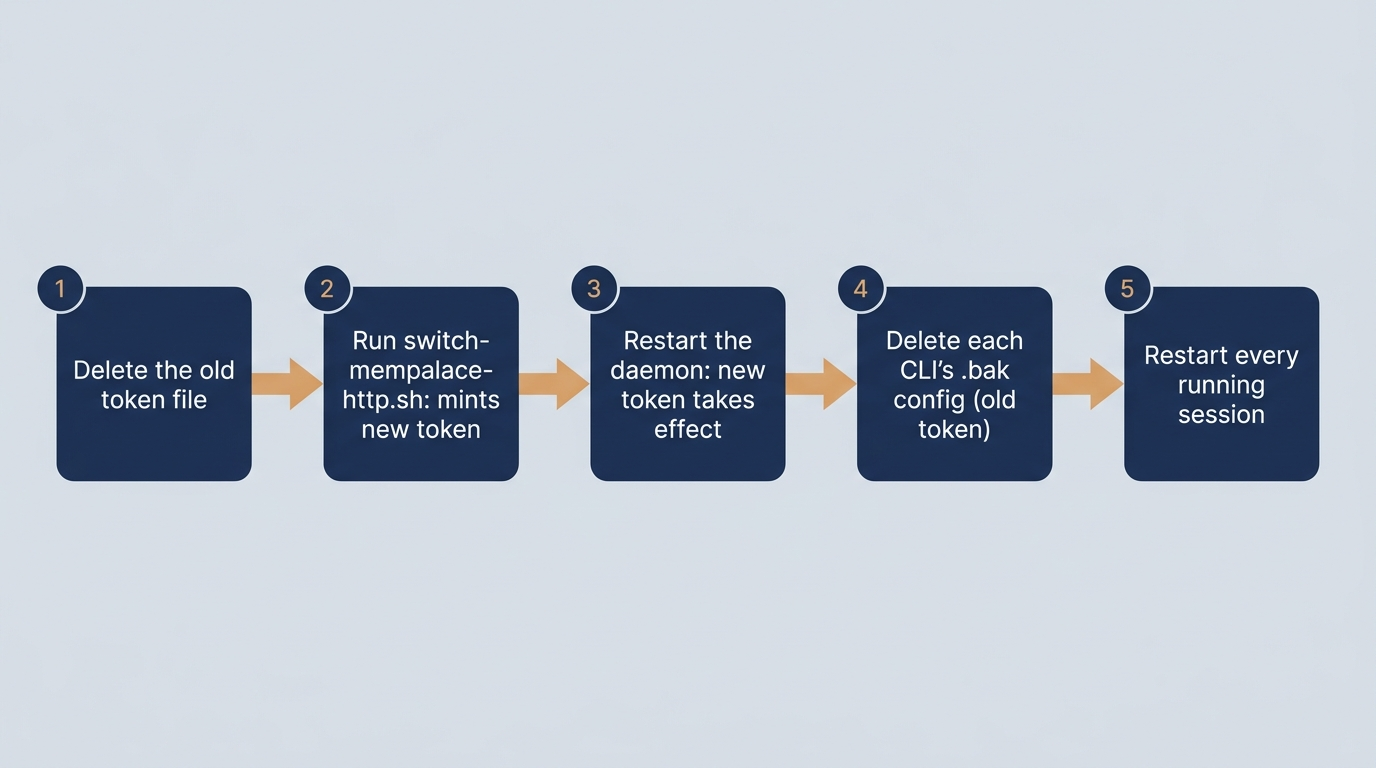
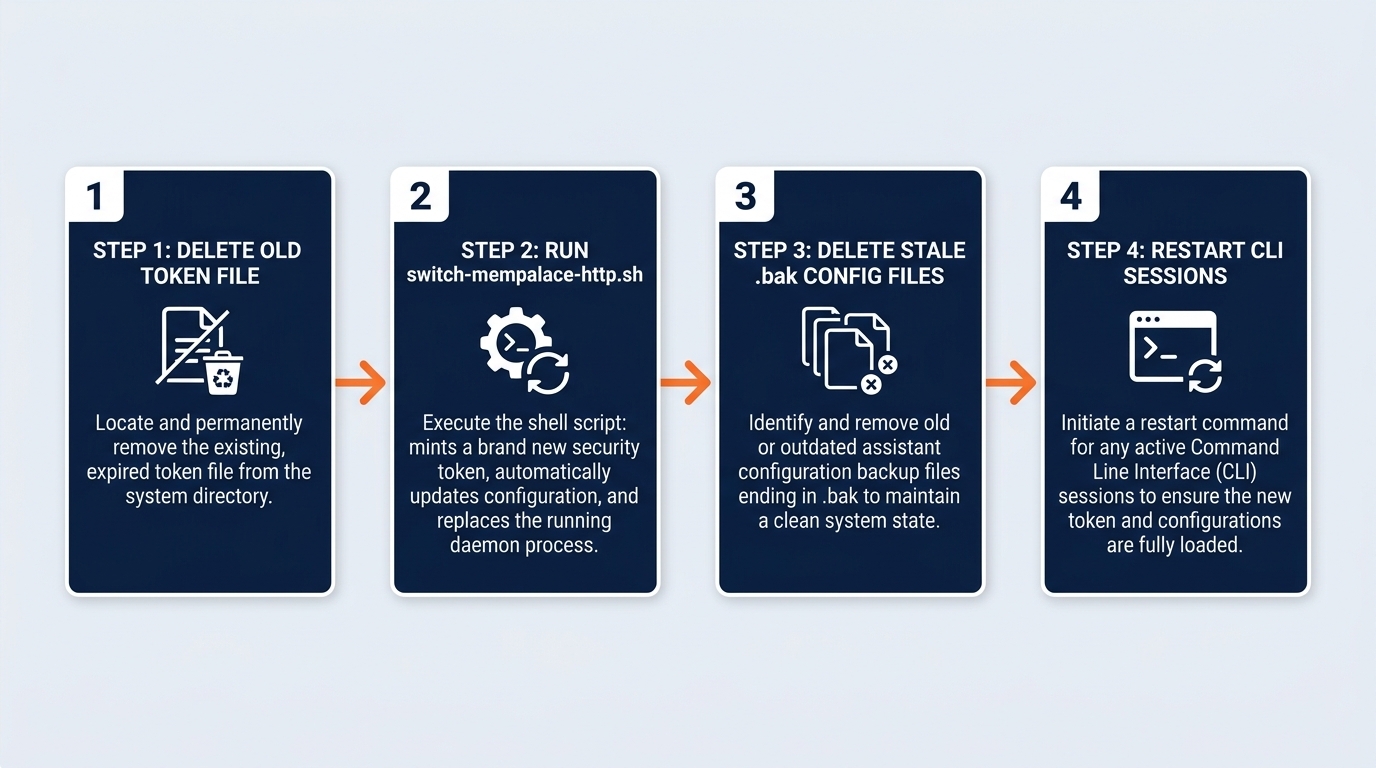
📝 Refresh the MemPalace runbook's rotation section (#914)

diff --git a/docs/runbooks/mempalace-mcp-server.md b/docs/runbooks/mempalace-mcp-server.md
@@ -137,20 +137,13 @@ directly in the log, naming
 
 ## Replacing the bearer token
 
-**No automated path exists yet, and the existing conversion tooling has a
-gap tracked separately as #880:** `switch-mempalace-http.sh` mints a new
-token and re-registers every CLI with it, but it does **not** restart the
-daemon — `install_daemon_supervisor` explicitly skips loading an
-already-loaded launchd agent and `enable --now` no-ops on an already-active
-systemd unit, and the launcher process, once running, `exec`s the wrapper
-once and never re-reads the token file
-(`scripts/lib/mcp-daemon-launcher.sh:187`). So the running daemon keeps
-serving under the token it started with until something replaces the
-process. The manual procedure below adds the missing restart explicitly, in
-the order that leaves no daemon serving the superseded token for longer
-than necessary.
+When you need to rotate the bearer token (for instance, after a suspected
+leak), follow the four-step manual procedure below. Re-running the switch
+script mints a fresh token, replaces the running daemon process so the new
+token takes effect immediately, and re-registers every assistant CLI with the
+new credential.
 
-![Five ordered steps to replace the shared MCP daemon's bearer token: delete the old token file, run switch-mempalace-http.sh to mint a new token and re-register every CLI, restart the daemon so the new token takes effect, delete each CLI's stale backup config that still holds the old token, then restart every running session.](../assets/mempalace-mcp/rotate-token.png)
+![Four ordered steps to replace the shared MCP daemon's bearer token: delete the old token file, run switch-mempalace-http.sh to mint a new token and replace the daemon process, delete each CLI's stale backup config that still holds the old token, then restart every running session.](../assets/mempalace-mcp/rotate-token.png)
 
 1. **Delete the current token file.** Its path is derived from the palace
    path the same way the daemon derives it (`scripts/lib/common.sh`,
@@ -166,23 +159,23 @@ than necessary.
    task mempalace:switch-http
    ```
 
-   Finding no token file, this mints a fresh one and re-registers every CLI
-   with it — but it does **not** restart the daemon (#880). The running
-   process keeps serving under the *old* token until step 3.
+   Finding no token file, this mints a fresh one, replaces the running
+   daemon process under the supervisor (`mcp_daemon_replace_process`), and
+   re-registers every CLI with the new credential. **This is the point at
+   which the superseded token stops being honored** (spec 0139) — the switch
+   script verifies that the new token is served before updating any CLI
+   registration, and fails visibly rather than leave a running daemon
+   honouring the stale credential.
 
-3. **Restart the daemon so the new token actually takes effect:**
+   > [!WARNING]
+   > **Replacement-window residual risk (spec 0139 delta-01 R5):** During the
+   > brief process replacement window in step 2 (between terminating the old
+   > daemon and binding the new listener), the supervisor port is temporarily
+   > released. On an untrusted multi-user system, another local process could
+   > theoretically bind the released port before the daemon relaunches; in that
+   > event, the switch script fails when probing the listener.
 
-   ```sh
-   task mempalace:stop
-   ```
-
-   Under the supervisor this is a restart request (see *Stopping is not
-   uninstalling* above): the process is replaced, and only the replacement
-   reads the token file — which by now holds the value step 2 minted.
-   **This is the point at which the superseded token stops being
-   honored**, not step 2.
-
-4. **Delete each CLI's stale backup config.** Step 2's re-registration backs
+3. **Delete each CLI's stale backup config.** Step 2's re-registration backs
    up each assistant's config file with a timestamp suffix before
    overwriting it, and every backup still contains the *old* token:
 
@@ -194,7 +187,7 @@ than necessary.
 
    Remove whichever of these exist on this machine.
 
-5. **Restart every running CLI session** so it picks up the new token —
+4. **Restart every running CLI session** so it picks up the new token —
    exactly as after a first conversion, a session already running keeps
    using the value it started with.
 

diff --git a/docs/assets/mempalace-mcp/rotate-token.prompt.md b/docs/assets/mempalace-mcp/rotate-token.prompt.md
@@ -2,29 +2,21 @@
 
 <!-- crewrig-doc: published=false -->
 
-Generated for spec 0136 (issue #751), figure step of PLAN v5 (satisfies R13,
-R14, R15). Depicts the ordered manual procedure for replacing the shared MCP
-daemon's bearer token, in the order that leaves no daemon serving a
-superseded value (R5).
+Generated for spec 0136 (issue #751), refreshed for spec 0160 (issue #914)
+following the token-rotation revocation fix in PR #897 (issue #880 / spec 0139).
+Depicts the ordered manual procedure for replacing the shared MCP daemon's bearer
+token, in the order that leaves no daemon serving a superseded value.
 
-**Corrected during REVIEW (cold `architect` pass on #877): the original
-version of this figure and the runbook both repeated a false claim inherited
-from `scripts/uninstall-mcp-daemon.sh`'s own inline comment** ("mints a new
-one, restarts, and re-registers every CLI") — `switch-mempalace-http.sh`
-does **not** restart the daemon: `install_daemon_supervisor` skips loading
-an already-loaded launchd agent and no-ops `enable --now` on an
-already-active systemd unit, and the launcher process `exec`s the wrapper
-once and never re-reads the token file
-(`scripts/lib/mcp-daemon-launcher.sh:187`). The upstream defect (false
-comment, incomplete procedure, no test asserting the old token is refused
-after rotation) is filed as #880. This figure now depicts the corrected,
-five-step procedure with an explicit daemon-restart step added — its
-original four-step order was otherwise right and is unchanged: delete the
-token file, run `switch-mempalace-http.sh` (mints a new token, re-registers
-every CLI, but does not restart), restart the daemon (`task mempalace:stop`
-— the actual point the superseded token stops being honored), remove the
-`.bak` config files that still hold the old token, then restart every
-running session.
+**Refreshed for spec 0160 (issue #914):** PR #897 (issue #880) resolved the
+previous defect where `switch-mempalace-http.sh` did not restart the running
+daemon. The script now directly replaces the daemon process
+(`mcp_daemon_replace_process`) and verifies that the new token is served before
+re-registering any assistant. The redundant manual daemon restart step
+(`task mempalace:stop`) is therefore removed. This figure depicts the
+authoritative four-step procedure matching shipped script behaviour: (1) delete
+the old token file, (2) run `switch-mempalace-http.sh` (mints new token,
+replaces daemon process, re-registers every CLI), (3) delete `.bak` config files
+that still hold the old token, and (4) restart every running CLI session.
 
 - **Model:** `gemini-3-pro-image` (Nano Banana Pro)
 - **Skill:** `nano-banana`, `generate` subcommand
@@ -40,7 +32,7 @@ no drop shadows, no gradients — a plain corporate technical diagram. Use a
 dark navy blue color for every numbered box, white sans-serif text inside the
 boxes, and a muted orange/tan color for every connecting arrow.
 
-Layout: exactly five rounded-rectangle boxes arranged left to right in a
+Layout: exactly four rounded-rectangle boxes arranged left to right in a
 single horizontal row, connected by bold orange arrows pointing rightward
 from each box to the next one, forming a single strict left-to-right
 sequence. Each box has a small circular badge in its top-left corner
@@ -48,9 +40,8 @@ containing a single number in white text. In this exact left-to-right order:
 
 1. Badge "1". Box text: "Delete the old token file"
 2. Badge "2". Box text: "Run switch-mempalace-http.sh: mints new token"
-3. Badge "3". Box text: "Restart the daemon: new token takes effect"
-4. Badge "4". Box text: "Delete each CLI's .bak config (old token)"
-5. Badge "5". Box text: "Restart every running session"
+3. Badge "3". Box text: "Delete each CLI's .bak config (old token)"
+4. Badge "4". Box text: "Restart every running session"
 
 Render every specified word and every number exactly as given, with no
 typos, no missing words, no substituted words, no reordering, and no extra

diff --git a/specs/0160-refresh-mempalace-runbook-rotation.md b/specs/0160-refresh-mempalace-runbook-rotation.md
@@ -1,7 +1,7 @@
 ---
 id: "0160"
 slug: refresh-mempalace-runbook-rotation
-status: approved
+status: implemented
 complexity: small
 interaction-mode: INTERMEDIATE
 related-issue: 914
